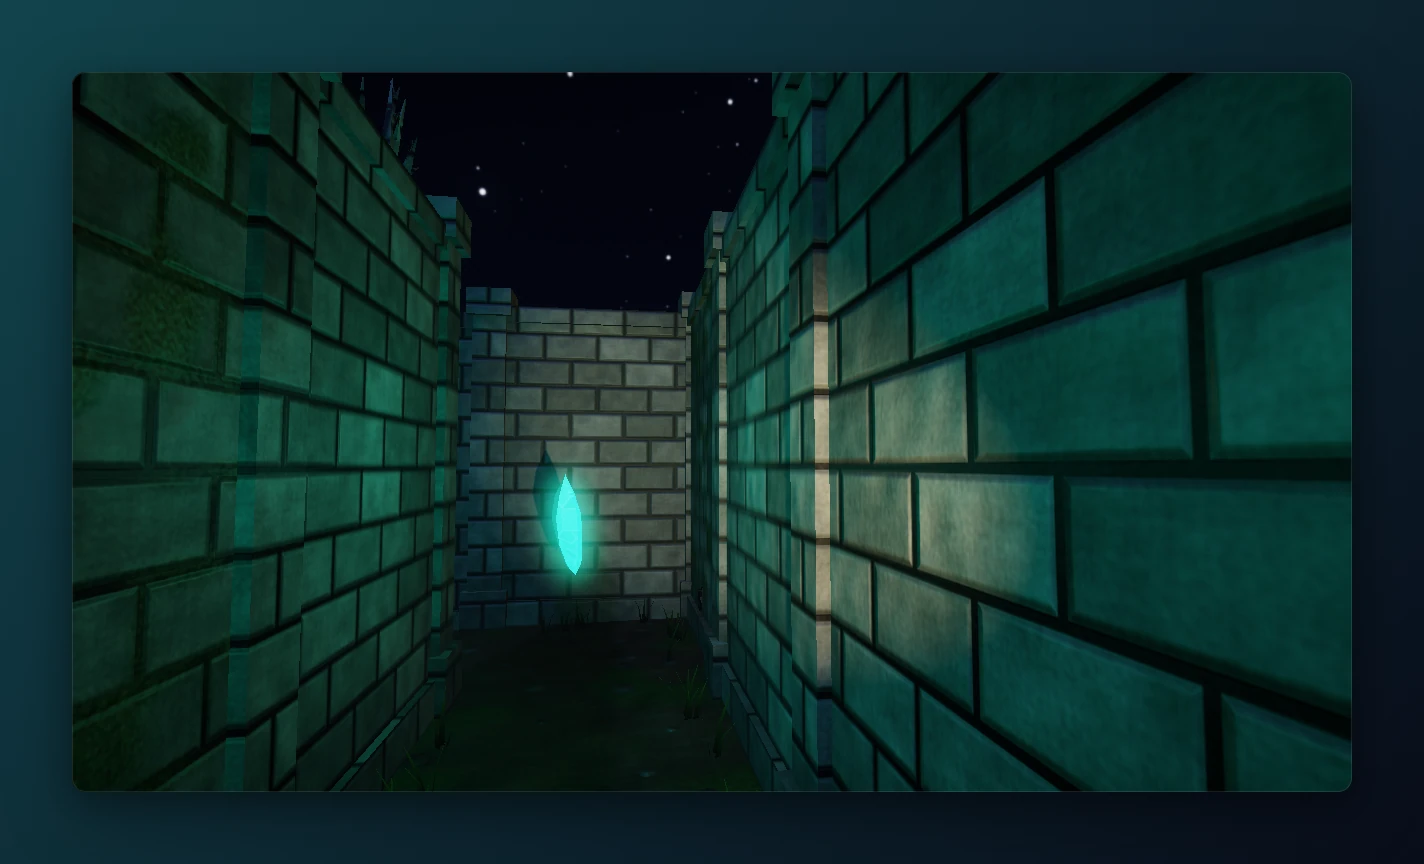
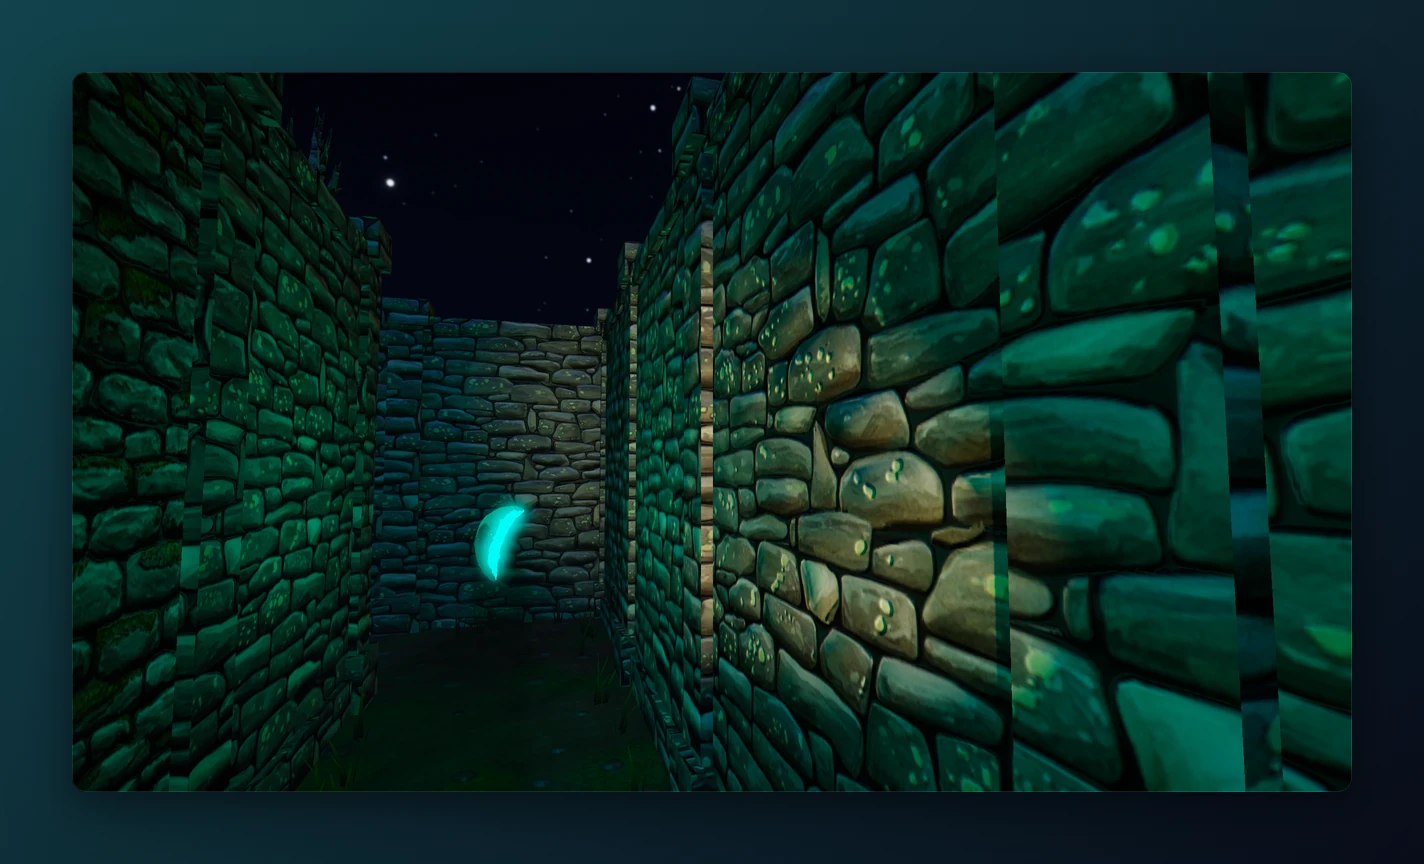
fix(projects): refresh night maze pictures and text for 0.17.0

diff --git a/src/data/projects/night-maze.ts b/src/data/projects/night-maze.ts
@@ -9,7 +9,7 @@ export const nightMaze: Project = {
   description: [
     'Night Maze began as a university project for a computer graphics course and I kept going. You stand in a stone maze at night with a flashlight. Crystals lie in the corridors, and when you carry enough of them the gate at the far end opens. A shadow wanders the maze and listens: it hears a sprint from 14 metres and a walk from 6, and holding the beam on it for 2.5 seconds burns it away for a while.',
     'There is no game engine underneath. The lighting, the two shadow maps, the fog, the HDR pipeline with ACES tone mapping and the bloom are written by hand on top of OpenGL. Small libraries do the window, the math, the menus and the sound. The rules of the game are plain structs and free functions that touch no window, file or clock, so more than 1000 test cases run without one.',
-    'The game has a campaign of five nights, each in a bigger maze with a shorter battery, a daily maze that takes the date as its seed, a story told in 24 chalk marks on the walls, and free play with three difficulty levels. The models come from Blender scripts and the 23 sounds and the menu theme are computed by a script.',
+    'The game has a campaign of five nights, each in a bigger maze with a shorter battery, a daily maze that takes the date as its seed, a story told in 24 chalk marks on the walls, and free play with three difficulty levels. A new campaign opens with a storybook: six painted pictures read aloud by a narrator over their own theme. Most models start from shapes I generated in Tripo and are finished by my Blender scripts, and most sounds, the music and the narration are generated with ElevenLabs, then cut, levelled and wired into the game by me.',
     'Friends get it through a small launcher I wrote in Tauri and Rust. It installs the game from GitHub Releases, checks a signed manifest before anything is unpacked, keeps the game and itself up to date, and goes back a version when a new one does not start.',
   ],
   image: '/projects/night-maze/thumbnail.webp',
@@ -56,8 +56,9 @@ export const nightMaze: Project = {
     },
     {
       src: '/projects/night-maze/intro.webp',
-      alt: 'Night Maze: The intro',
-      caption: 'One of the five cards of the intro, played live in the game.',
+      alt: 'Night Maze: The storybook intro, a painted picture of the maze above a village',
+      caption:
+        'The storybook intro: the old maze above the sleeping village, with splinters of the moon glowing in its corridors.',
     },
   ],
   technologies: [
@@ -77,9 +78,9 @@ export const nightMaze: Project = {
     'Mazes generated from a seed, with levers that open shortcuts, worn wall variants and fog of war on the map',
     'A shadow that hunts by sound and sight along the corridors, and is burned away by the flashlight beam',
     'Campaign of five nights, a daily maze seeded by the date, and free play with three difficulty levels',
-    'A story in 24 chalk marks, kept in a ledger, with an intro played live in the game',
+    'A story in 24 chalk marks, kept in a ledger, opened by a narrated storybook of six painted pictures',
     'More than 1000 test cases for game rules that need no window, file or clock',
-    'Models built by Blender scripts, and 23 sounds plus the menu theme computed by a script',
+    'Models generated in Tripo and finished by Blender scripts; sounds, music and narration generated with ElevenLabs',
     'Menus in RmlUi with rebindable keys, and a Dear ImGui debug window for every render setting',
     'Launcher in Tauri and Rust: signed manifests, checksums, self update and going back a version',
     'Releases built and signed by GitHub Actions behind a manual approval',
@@ -97,6 +98,8 @@ export const nightMaze: Project = {
       'miniaudio',
       'doctest',
       'Blender (Python scripts)',
+      'Tripo (generated models)',
+      'ElevenLabs (sounds, music, narration)',
       'Tauri 2 + Rust (launcher)',
       'Astro (website)',
       'GitHub Actions',
